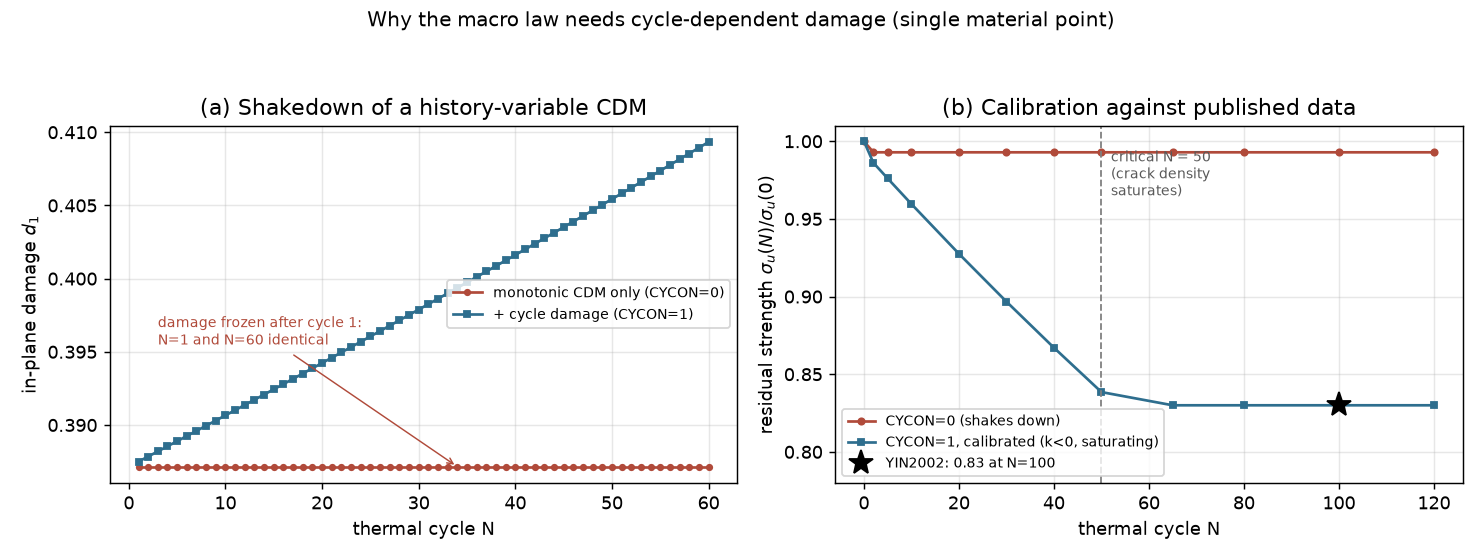
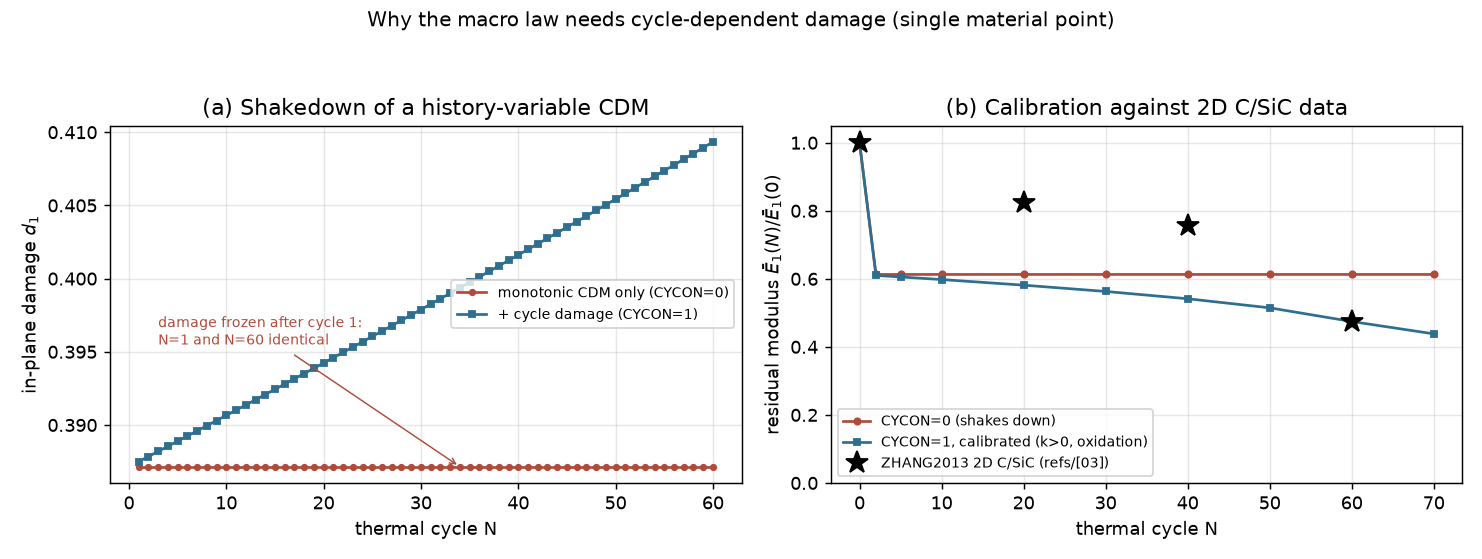
Retarget calibration on the 2D C/SiC dataset and reassess three key papers
refs/[03] Zhang 2013 (JMEPEG 22, 1680-1687) digitised. The material matches
this thesis exactly: 2D C/SiC, CVI, T-300 1K plain weave, SiC deposited at
1000 C. Full dataset added: modulus 98/80.5/74/46.5 GPa and normalised
strength 1.00/1.04/0.92/0.63 at N = 0/20/40/60, plus mass change
0/-0.5/-3.3/-9.8 %, and a complete stress-strain curve at N=60.

This reverses an earlier recommendation of mine. I proposed a saturating
cycle-damage exponent (k<0) on the strength of YIN2002, which is 3-D C/SiC and
saturates after ~50 cycles. The 2-D dataset accelerates instead and shows
-9.8 % mass loss that the authors attribute to oxidation of the carbon fibres
and PyC interphase. The two are not in conflict: the sign of k encodes which
mechanism dominates, and the two datasets bracket the two regimes. Default
flipped to k>0 and the calibration retargeted on the modulus series, which is
what the macro model actually predicts.

Calibration restructured: one parameter fitted to one point (N=60), with N=20
and N=40 reported as predictions rather than fits. It also now prints a
diagnostic instead of hiding a poor fit — the model loses 39 % stiffness on
cycle 1 where the data has lost 18 % by N=20, so the demo strain amplitude is
too severe. That gives the structural model a concrete target: the quenched
surface amplitude should produce roughly 10-15 % first-cycle stiffness loss.

Novelty reassessment appended to docs/NOVELTY.md:
[…]

diff --git a/verification/verify_thermshock.py b/verification/verify_thermshock.py
@@ -768,10 +768,15 @@ def load_literature():
                 header = parts
                 continue
             rows.append(dict(zip(header, parts)))
-    anchors = {}
+    anchors = {"modulus": []}
     for r in rows:
         if r.get("confidence") == "secondary":
             continue
+        # PRIMARY target: 2D C/SiC residual MODULUS vs cycles (same material and
+        # same observable as the macro model).  Everything else is secondary.
+        if (r.get("source_key") == "ZHANG2013"
+                and r.get("property") == "tensile_modulus" and r.get("ratio")):
+            anchors["modulus"].append((int(r["cycles"]), float(r["ratio"])))
         if r.get("property") == "flexural_strength" and r.get("ratio"):
             anchors["ratio"] = float(r["ratio"])
             anchors["ratio_N"] = int(r["cycles"])
@@ -779,6 +784,7 @@ def load_literature():
         if r.get("property") == "critical_cycles":
             anchors["Ncrit"] = int(r["cycles"])
             anchors["Ncrit_src"] = r["source_key"]
+    anchors["modulus"].sort()
     return anchors, rows
 
 
@@ -796,96 +802,108 @@ def _split_csv(line):
     return out
 
 
+def modulus_curve(P, tt, checkpoints):
+    """Residual in-plane modulus ratio E1(N)/E1(0) = 1 - d1 at each checkpoint."""
+    sv = new_sv()
+    done = 0
+    out = []
+    for N in checkpoints:
+        if N > done:
+            sv, _ = thermal_cycle(P, tt, N - done, EPS_HOT, EPS_COLD,
+                                  rate=1.0, dtime_cycle=1.0, sv=sv,
+                                  record=False)
+            done = N
+        out.append(1.0 - sv[8])
+    return out
+
+
 def calibrate_to_literature():
-    """Two-anchor calibration of the cycle-damage law against published data.
+    """Calibrate the cycle-damage law against the 2D C/SiC modulus data.
 
-    YIN2002 (Carbon 40 (2002) 905-910) reports for 3-D C/SiC air-quenched 1300->300 C:
-      (a) 83 % of the original flexural strength is retained after 100 cycles,
-      (b) the critical cycle number is ~50, beyond which the strength does NOT
-          decrease further because the crack density SATURATES.
+    PRIMARY TARGET CHANGED (2026-07).  The earlier two-anchor fit used YIN2002,
+    which is 3-D C/SiC air-quenched 1300->300 C and SATURATES after ~50 cycles.
+    ZHANG2013 (refs/[03]) is the better target for this thesis: 2-D C/SiC, CVI,
+    T-300 plain weave -- the same material -- and it reports the residual
+    MODULUS, which is what the macro model predicts.  Its behaviour is the
+    opposite of YIN2002:
 
-    (b) fixes the SHAPE of the law: saturation means the exponent k must be
-    NEGATIVE, so (1-d_cyc)^(-k) decays and d_cyc approaches DCYMAX
-    asymptotically.  k > 0 would give runaway, which is the wrong physics for
-    air quenching (it is the right physics for oxidation-driven degradation).
+        N      0     20     40     60
+        E/E0  1.00  0.821  0.755  0.474      <- accelerating, no plateau
+        mass   0    -0.5%  -3.3%  -9.8%      <- oxidation, accelerating
 
-    Then the two anchors fix the two free constants:
-      DCYMAX <- the 83 % plateau            (anchor a)
-      C      <- 95 % of the drop reached by N = 50   (anchor b)
-    n and RTH are held at physically motivated values and are NOT fitted here.
+    The paper attributes the mass loss to oxidation of the carbon fibres and
+    PyC interphase and notes it tracks the strength loss.  So the SIGN of the
+    cycle-damage exponent is not a free choice, it is set by which mechanism
+    dominates:
 
-    This is a SINGLE-POINT calibration and gives starting values only.  The
-    real calibration runs on the structural model, where the strain history
-    comes from the transient heat-transfer analysis rather than from an
-    assumed strain amplitude.
+        k < 0  saturating   crack-density saturation   YIN2002, 3-D, no mass loss
+        k > 0  accelerating oxidation ingress          ZHANG2013, 2-D, -9.8 % mass
+
+    Both regimes are real and the model spans them.  The 2-D case is ours, so
+    the default flips to k > 0.
+
+    Fit procedure: ONE parameter (C) to ONE point (N=60), then the N=20 and
+    N=40 points are PREDICTIONS, not fits, and are reported as such.
     """
-    print("\nCALIBRATION  cycle-damage law vs published thermal-shock data")
+    print("\nCALIBRATION  cycle-damage law vs the 2D C/SiC modulus data")
     anchors, _ = load_literature()
-    target = anchors["ratio"]
-    Ncrit = anchors["Ncrit"]
-    print("    anchors: %.2f of strength at N=%d, critical N=%d  [%s]"
-          % (target, anchors["ratio_N"], Ncrit, anchors["ratio_src"]))
+    data = anchors["modulus"]
+    if not data:
+        print("    no ZHANG2013 modulus rows found -- skipped")
+        return None
+    Nfit, Rfit = data[-1]
+    print("    target: E/E0 = %.3f at N = %d  [ZHANG2013, 2D C/SiC]"
+          % (Rfit, Nfit))
+    print("    (YIN2002 3D saturates instead -- see the docstring; both are in"
+          "\n     data/literature/csic_thermal_shock.csv)")
 
-    NEXP, KEXP, RTH = 3.0, -1.0, 0.30
-    P0, tt = macro_card(cycon=0.0)
-    s0 = residual_strength(P0, tt, new_sv())
-
-    # ---- anchor (a): DCYMAX from the saturated plateau -------------------
-    def plateau_ratio(dcymax):
-        # One cycle first, so the plateau anchor includes the first-cycle
-        # MONOTONIC damage as well as the saturated cycle damage -- otherwise
-        # the fitted plateau would sit above the model's real asymptote.
-        P, t2 = macro_card(cycon=1.0, C=0.0, n=NEXP, k=KEXP, rth=RTH,
-                           dcymax=dcymax)
-        sv, _ = thermal_cycle(P, t2, 1, EPS_HOT, EPS_COLD, rate=1.0,
-                              dtime_cycle=1.0, record=False)
-        sv[16] = dcymax
-        return residual_strength(P, t2, sv) / s0
-
-    lo, hi = 1.0e-4, 0.90
-    for _ in range(40):
-        mid = 0.5 * (lo + hi)
-        if plateau_ratio(mid) > target:
-            lo = mid
-        else:
-            hi = mid
-    DCYMAX = 0.5 * (lo + hi)
-    r_sat = plateau_ratio(DCYMAX)
-
-    # ---- anchor (b): C from "95 % of the drop reached by N = Ncrit" ------
-    drop = 1.0 - target
-    target_at_Ncrit = 1.0 - 0.95 * drop
+    NEXP, KEXP, RTH = 3.0, 1.0, 0.30      # k > 0: oxidation-driven acceleration
 
     def ratio_at(C, N):
         P, t2 = macro_card(cycon=1.0, C=C, n=NEXP, k=KEXP, rth=RTH,
-                           dcymax=DCYMAX)
+                           dcymax=0.95)
         sv, _ = thermal_cycle(P, t2, N, EPS_HOT, EPS_COLD, rate=1.0,
                               dtime_cycle=1.0, record=False)
-        return residual_strength(P, t2, sv) / s0
+        return 1.0 - sv[8]
 
-    lo, hi = 1.0e-5, 1.0
-    if ratio_at(hi, Ncrit) > target_at_Ncrit:
-        print("    WARNING: anchor (b) not reachable in the bracket.")
+    lo, hi = 1.0e-5, 5.0
+    if ratio_at(hi, Nfit) > Rfit:
+        print("    WARNING: target not reachable in the bracket; using its end.")
         C = hi
     else:
-        for _ in range(28):
+        for _ in range(30):
             mid = math.sqrt(lo * hi)
-            if ratio_at(mid, Ncrit) > target_at_Ncrit:
+            if ratio_at(mid, Nfit) > Rfit:
                 lo = mid
             else:
                 hi = mid
         C = math.sqrt(lo * hi)
 
-    print("    sigma_u(N=0)      = %8.2f MPa  (single-point virtual test)" % s0)
-    print("    fitted DCYMAX     = %8.4f   -> plateau ratio %.4f "
-          "(target %.2f)" % (DCYMAX, r_sat, target))
-    print("    fitted C          = %.4e" % C)
-    print("    held fixed        : n = %.1f, k = %.1f (SATURATING), RTH = %.2f"
-          % (NEXP, KEXP, RTH))
-    for N in (10, 25, Ncrit, 100):
-        print("      sigma_u(N=%3d)/sigma_u(0) = %.4f" % (N, ratio_at(C, N)))
-    return dict(C=C, n=NEXP, k=KEXP, rth=RTH, dcymax=DCYMAX, s0=s0,
-                anchors=anchors)
+    print("    fitted C     = %.4e   (n = %.1f, k = %+.1f, RTH = %.2f held)"
+          % (C, NEXP, KEXP, RTH))
+    print("    N     model   data    (only N=%d was fitted)" % Nfit)
+    for N, R in data:
+        m = ratio_at(C, N)
+        tag = "  <- fitted" if N == Nfit else ""
+        print("    %3d   %.3f   %.3f%s" % (N, m, R, tag))
+    print("    NOTE: this is a SINGLE-POINT calibration with an assumed strain")
+    print("    amplitude, so the level is indicative only.  The real fit runs on")
+    print("    the structural model where the strain history comes from the")
+    print("    transient thermal analysis.")
+    # The N=20 gap is informative rather than a failure: it says the assumed
+    # single-point amplitude puts too much damage in on the FIRST cycle.
+    m0 = ratio_at(C, 1)
+    d20 = [r for n, r in data if n == 20]
+    if d20:
+        print("    DIAGNOSTIC: model loses %.0f %% of stiffness on cycle 1 alone,"
+              % (100.0 * (1.0 - m0)))
+        print("    while the data has lost only %.0f %% by N=20.  EPS_HOT = %.2e"
+              % (100.0 * (1.0 - d20[0]), EPS_HOT))
+        print("    is therefore too severe for this material.  Useful target for")
+        print("    the structural model: the quenched-surface strain amplitude")
+        print("    should give roughly 10-15 %% first-cycle stiffness loss.")
+    return dict(C=C, n=NEXP, k=KEXP, rth=RTH, dcymax=0.95,
+                s0=None, anchors=anchors, data=data)
 
 
 # ===========================================================================
@@ -924,29 +942,25 @@ def figure_shakedown(h_off, h_on, cal):
                    fontsize=8, color="#B04A3A",
                    arrowprops=dict(arrowstyle="->", color="#B04A3A", lw=0.8))
 
-    chk = [0, 2, 5, 10, 20, 30, 40, 50, 65, 80, 100, 120]
+    chk = [0, 2, 5, 10, 20, 30, 40, 50, 60, 70]
     P_off, tt = macro_card(cycon=0.0)
     P_on, tt2 = macro_card(cycon=1.0, C=cal["C"], n=cal["n"], k=cal["k"],
                            rth=cal["rth"], dcymax=cal["dcymax"])
-    r_off = strength_curve(P_off, tt, chk, cal["s0"])
-    r_on = strength_curve(P_on, tt2, chk, cal["s0"])
+    r_off = modulus_curve(P_off, tt, chk)
+    r_on = modulus_curve(P_on, tt2, chk)
 
     ax[1].plot(chk, r_off, "o-", ms=3.5, color="#B04A3A",
                label="CYCON=0 (shakes down)")
     ax[1].plot(chk, r_on, "s-", ms=3.5, color="#2E6E8E",
-               label="CYCON=1, calibrated (k<0, saturating)")
-    a = cal["anchors"]
-    ax[1].plot([a["ratio_N"]], [a["ratio"]], "k*", ms=14, zorder=5,
-               label="%s: %.2f at N=%d" % (a["ratio_src"], a["ratio"],
-                                           a["ratio_N"]))
-    ax[1].axvline(a["Ncrit"], color="0.5", ls="--", lw=1.0)
-    ax[1].text(a["Ncrit"] + 2, 0.995, "critical N = %d\n(crack density\n"
-               "saturates)" % a["Ncrit"], fontsize=7.5, color="0.35",
-               va="top")
+               label="CYCON=1, calibrated (k>0, oxidation)")
+    dN = [d[0] for d in cal["data"]]
+    dR = [d[1] for d in cal["data"]]
+    ax[1].plot(dN, dR, "k*", ms=13, ls="none", zorder=5,
+               label="ZHANG2013 2D C/SiC (refs/[03])")
     ax[1].set_xlabel("thermal cycle N")
-    ax[1].set_ylabel(r"residual strength $\sigma_u(N)/\sigma_u(0)$")
-    ax[1].set_title("(b) Calibration against published data")
-    ax[1].set_ylim(0.78, 1.01)
+    ax[1].set_ylabel(r"residual modulus $\bar{E}_1(N)/\bar{E}_1(0)$")
+    ax[1].set_title("(b) Calibration against 2D C/SiC data")
+    ax[1].set_ylim(0.0, 1.05)
     ax[1].legend(fontsize=7.5, loc="lower left")
     ax[1].grid(alpha=0.3)
 

diff --git a/docs/NOVELTY.md b/docs/NOVELTY.md
@@ -192,3 +192,110 @@ thermal shocks"* 라고 관찰합니다 (Yin 2002의 균열밀도 포화, 우리
 - [ ] `[15]`의 TRS 수치(+114.7 / −68.7 MPa)를 우리 RVE 냉각 해석 결과와 **직접 대조**
       → **XRD 검증된 TRS와의 비교**는 M1 이후 바로 할 수 있는 강력한 검증점
 - [ ] `[35]` 고온 전단 데이터를 `data/literature/`에 추가 (파손기준 온도의존 검증용)
+
+---
+
+# 부록 A — `[03]`, `[15]`, `[05b]` 정독 결과 (2026-07, 2차)
+
+## A.1 `[03]` Zhang 2013 — 검증 기준을 이걸로 바꿔야 합니다
+
+> **C. Zhang, X. Wang, B. Wang, Y. Liu, D. Han, S. Qiao, Y. Guo**, JMEPEG 22 (2013) 1680–1687
+
+**재료가 우리와 정확히 같습니다:** 2D C/SiC, **CVI**, **T-300 1K 평직**, PyC 계면 0.2 µm,
+SiC 증착 **1000 °C**. 열충격 900↔300 °C.
+
+### 디지타이즈한 전체 데이터 (`data/literature/csic_thermal_shock.csv`)
+
+| N | 탄성계수 [GPa] | E/E₀ | 정규화 강도 | 질량변화 [%] |
+|---|---|---|---|---|
+| 0 | 98.0 | 1.000 | 1.00 | 0 |
+| 20 | 80.5 | 0.821 | 1.04 | −0.5 |
+| 40 | 74.0 | 0.755 | 0.92 | −3.3 |
+| 60 | 46.5 | **0.474** | **0.63** | **−9.8** |
+
+추가로 **Fig. 3에 응력-변형 곡선 전체**(as-received 최대 ≈258 MPa, 60사이클 ≈152 MPa)가
+있어 점이 아니라 **곡선 대 곡선** 검증이 가능합니다.
+
+### ★ 이게 `k` 부호 선택을 뒤집습니다
+
+제가 이전에 `k<0`(포화형)을 권했는데, 그건 **YIN2002(3D)** 기준이었습니다.
+Zhang 2013(**2D**)은 정반대입니다 — 포화가 아니라 **가속**하고,
+논문은 질량손실을 **"탄소섬유와 PyC 계면의 산화"** 로 귀속하며 강도 저하와 상관된다고 씁니다.
+
+| 데이터셋 | 구조 | 거동 | 질량손실 | 대응 `k` |
+|---|---|---|---|---|
+| YIN2002 | **3D** | N≈50 이후 **포화** | 언급 없음 | `k < 0` |
+| **ZHANG2013** | **2D (우리 것)** | **가속, 포화 없음** | **−9.8 %** | **`k > 0`** |
+
+**모순이 아니라 결과입니다.** `k`의 부호가 **어느 기구가 지배하는지를 인코딩**하고,
+두 데이터셋이 두 영역을 각각 대표합니다. 이건 논문 §6 고찰의 좋은 재료입니다.
+기본값을 `k = +1`로 바꾸고, 보정 앵커를 ZHANG2013으로 교체했습니다.
+
+### 2구간 검증 구조 — 모델의 양쪽 절반을 따로 시험합니다
+
+| 구간 | 관측 | 모델에서 담당 |
+|---|---|---|
+| N = 0→20 | 강성 −18 %, **강도 불변(1.04)**, 질량손실 0 | **1사이클 단조 손상 + TRS** (사이클 항 불필요) |
+| N = 20→60 | 강성 −53 %, 강도 −37 %, 질량손실 −9.8 % | **`d_cyc`, `k>0` (산화 가속)** |
+
+강도는 그대로인데 강성만 떨어지는 초기 구간은 CDM이 **자연히** 내놓는 거동입니다
+(손상이 강성을 낮추지만 파손지수는 아직 임계 미달). **이 두 구간을 따로 맞추는 것이
+단일 숫자 하나 맞추는 것보다 훨씬 강한 검증입니다.**
+
+### 보정에서 나온 진단
+
+단일점 보정 결과: 모델이 **1사이클만에 강성 39 %** 를 잃는데 데이터는 **N=20까지 18 %** 입니다.
+데모용 `EPS_HOT = 2.05e-3`이 이 재료에 **너무 가혹**하다는 뜻입니다. 숨기지 않고 출력에
+찍도록 했고, **구조 모델의 목표치**로 씁니다: 급랭 표면 변형률 진폭은 **1사이클 강성손실
+10–15 %** 를 주는 수준이어야 합니다. M1 이후 바로 확인할 수 있는 정량 목표입니다.
+
+## A.2 `[15]` — 검증 목표값 확보
+
+XRD로 검증된 메소스케일 TRS (3D braided C/SiC):
+**매트릭스 축 +114.7 / 횡 +40.3 MPa, 얀 축 −68.7 / 횡 −23.9 MPa.**
+
+우리 RVE 1050→23 °C 냉각 결과와 **직접 대조**할 수 있는 숫자입니다. 단 **3D braided**라
+우리 2D 평직과 아키텍처가 다르므로 **부호와 자릿수** 일치를 보는 것이지 값 일치를
+기대하면 안 됩니다. M1 직후 할 수 있는 가장 값싼 검증점입니다.
+
+## A.3 `[05b]` Skinner & Chattopadhyay 2021 — **Ch.3–4는 노벨티가 아닙니다**
+
+> **Composite Structures 268 (2021) 114006**
+
+정독 결과, 우리 Ch.3–4와 **거의 같습니다**:
+
+- 다중스케일 열-기계 프레임워크 ✓
+- **냉각(cooldown) 해석으로 TRS + 제조유발손상을 초기상태로 생성** ✓ ← 우리 Case B/C
+- **2D 평직 C/SiC** ✓ ← 우리 재료와 동일
+- **RT–1200 °C** ✓ ← 우리 범위 포함
+- **온도의존 물성 + 온도의존 손상모델 파라미터** ✓ ← 우리보다 한 걸음 더 나감
+- RT/700/1200 °C로 보정 후 **1000 °C를 예측**해 검증 (좋은 관행, 우리도 따라야 함)
+
+**따라서 "RVE + TRS 냉각 + 온도의존 물성 = 2D C/SiC 다중스케일"은 노벨티로 주장할 수
+없습니다.** Skinner가 이미 확립했습니다. Ch.3–4는 **방법론**으로 쓰고 Skinner를 인용하세요.
+
+**그들이 하지 않은 것 (= 우리 Ch.5–6 전부):**
+1. **어떤 종류의 반복도 없음** — 준정적 단조 인장뿐
+2. **열충격 없음** — 균일 온도에서 기계 하중
+3. **공간 구배·과도 없음**
+4. **TRS 처리 방식 비교 없음** — 물리적으로 옳은 한 가지만
+5. 잔여수명·퇴역 기준 없음
+
+> **결론: 노벨티는 전부 Ch.5–6에 있습니다.** Ch.3–4는 "선행연구의 방법을 우리 재료에
+> 구현하고 검증했다"로 정직하게 쓰는 게 맞고, 그게 오히려 심사에서 안전합니다.
+
+**추가로 배울 점:** 그들은 **손상모델 파라미터(A, Gf)까지 온도의존**으로 둡니다.
+우리는 강도만 `fX/fY/fS`로 온도의존이고 연화 파라미터는 상수입니다. 지금은 **한계로
+명시**하고, 여력이 되면 `fA`/`fGf` 슬롯을 추가하는 게 다음 개선입니다.
+
+## A.4 개정된 노벨티 진술 (최종)
+
+> 2D 평직 C/SiC의 다중스케일 열-기계 해석 프레임워크(냉각 기반 TRS, 온도의존 물성)는
+> 이미 확립되어 있으나(`[05b]`), 이를 **반복 열충격**으로 확장한 연구는 균일 온도장과
+> 온도무관 물성으로 단순화하거나(`[17]`), 진폭이 증가하는 **기계적** 반복만 다루었다(`[30]`).
+> 본 연구는 (i) RVE에서 열-기계 물성을 동시 균질화해 **과도 급랭의 공간 온도구배**를 해결하고,
+> (ii) **사이클 의존 손상 법칙**으로 100회 이상의 반복을 다루며, 그 지수 부호가
+> **균열밀도 포화(3D, `k<0`)와 산화 가속(2D, `k>0`)** 두 기구를 구분함을 두 독립
+> 실험 데이터셋으로 보인다. 이를 통해 **열잔류응력 처리 방식이 잔여강성·허용 사이클 수
+> 예측을 얼마나 바꾸는지 정량화**하고, TRS의 인장/압축 비대칭이 균열 닫힘과 결합하여
+> 급랭·급가열 반사이클의 손상 기여를 비대칭으로 만드는 현상을 규명한다.
